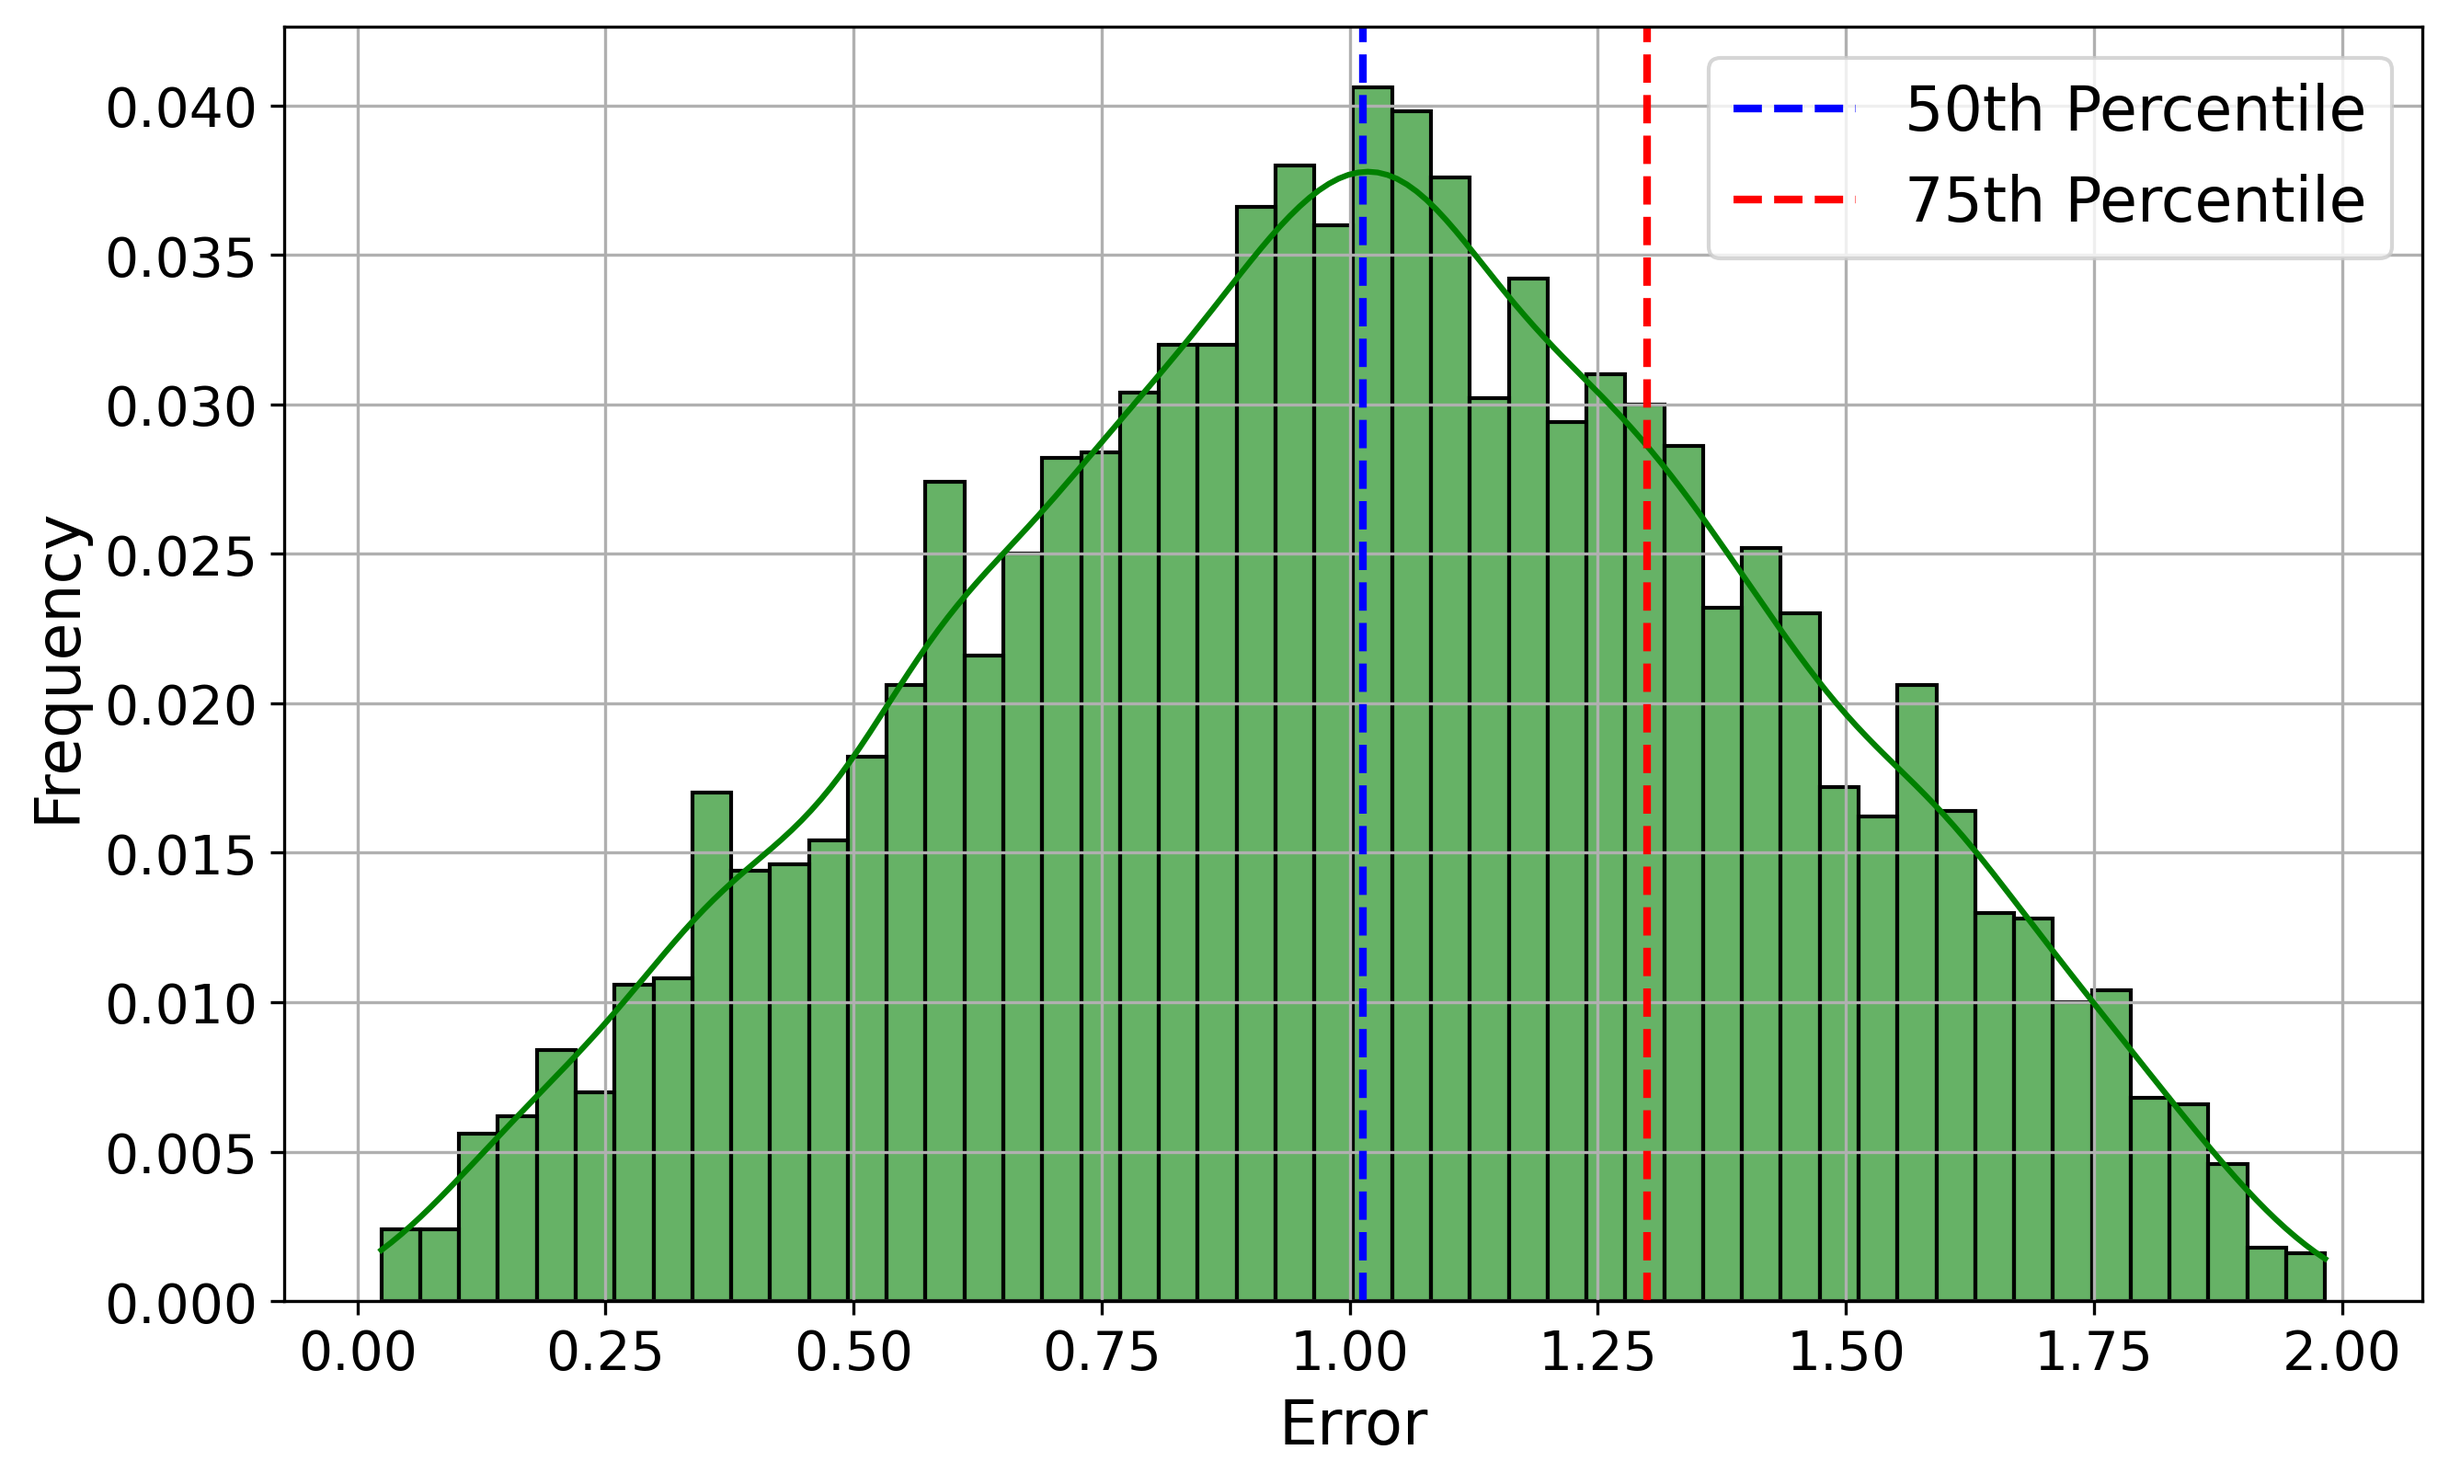
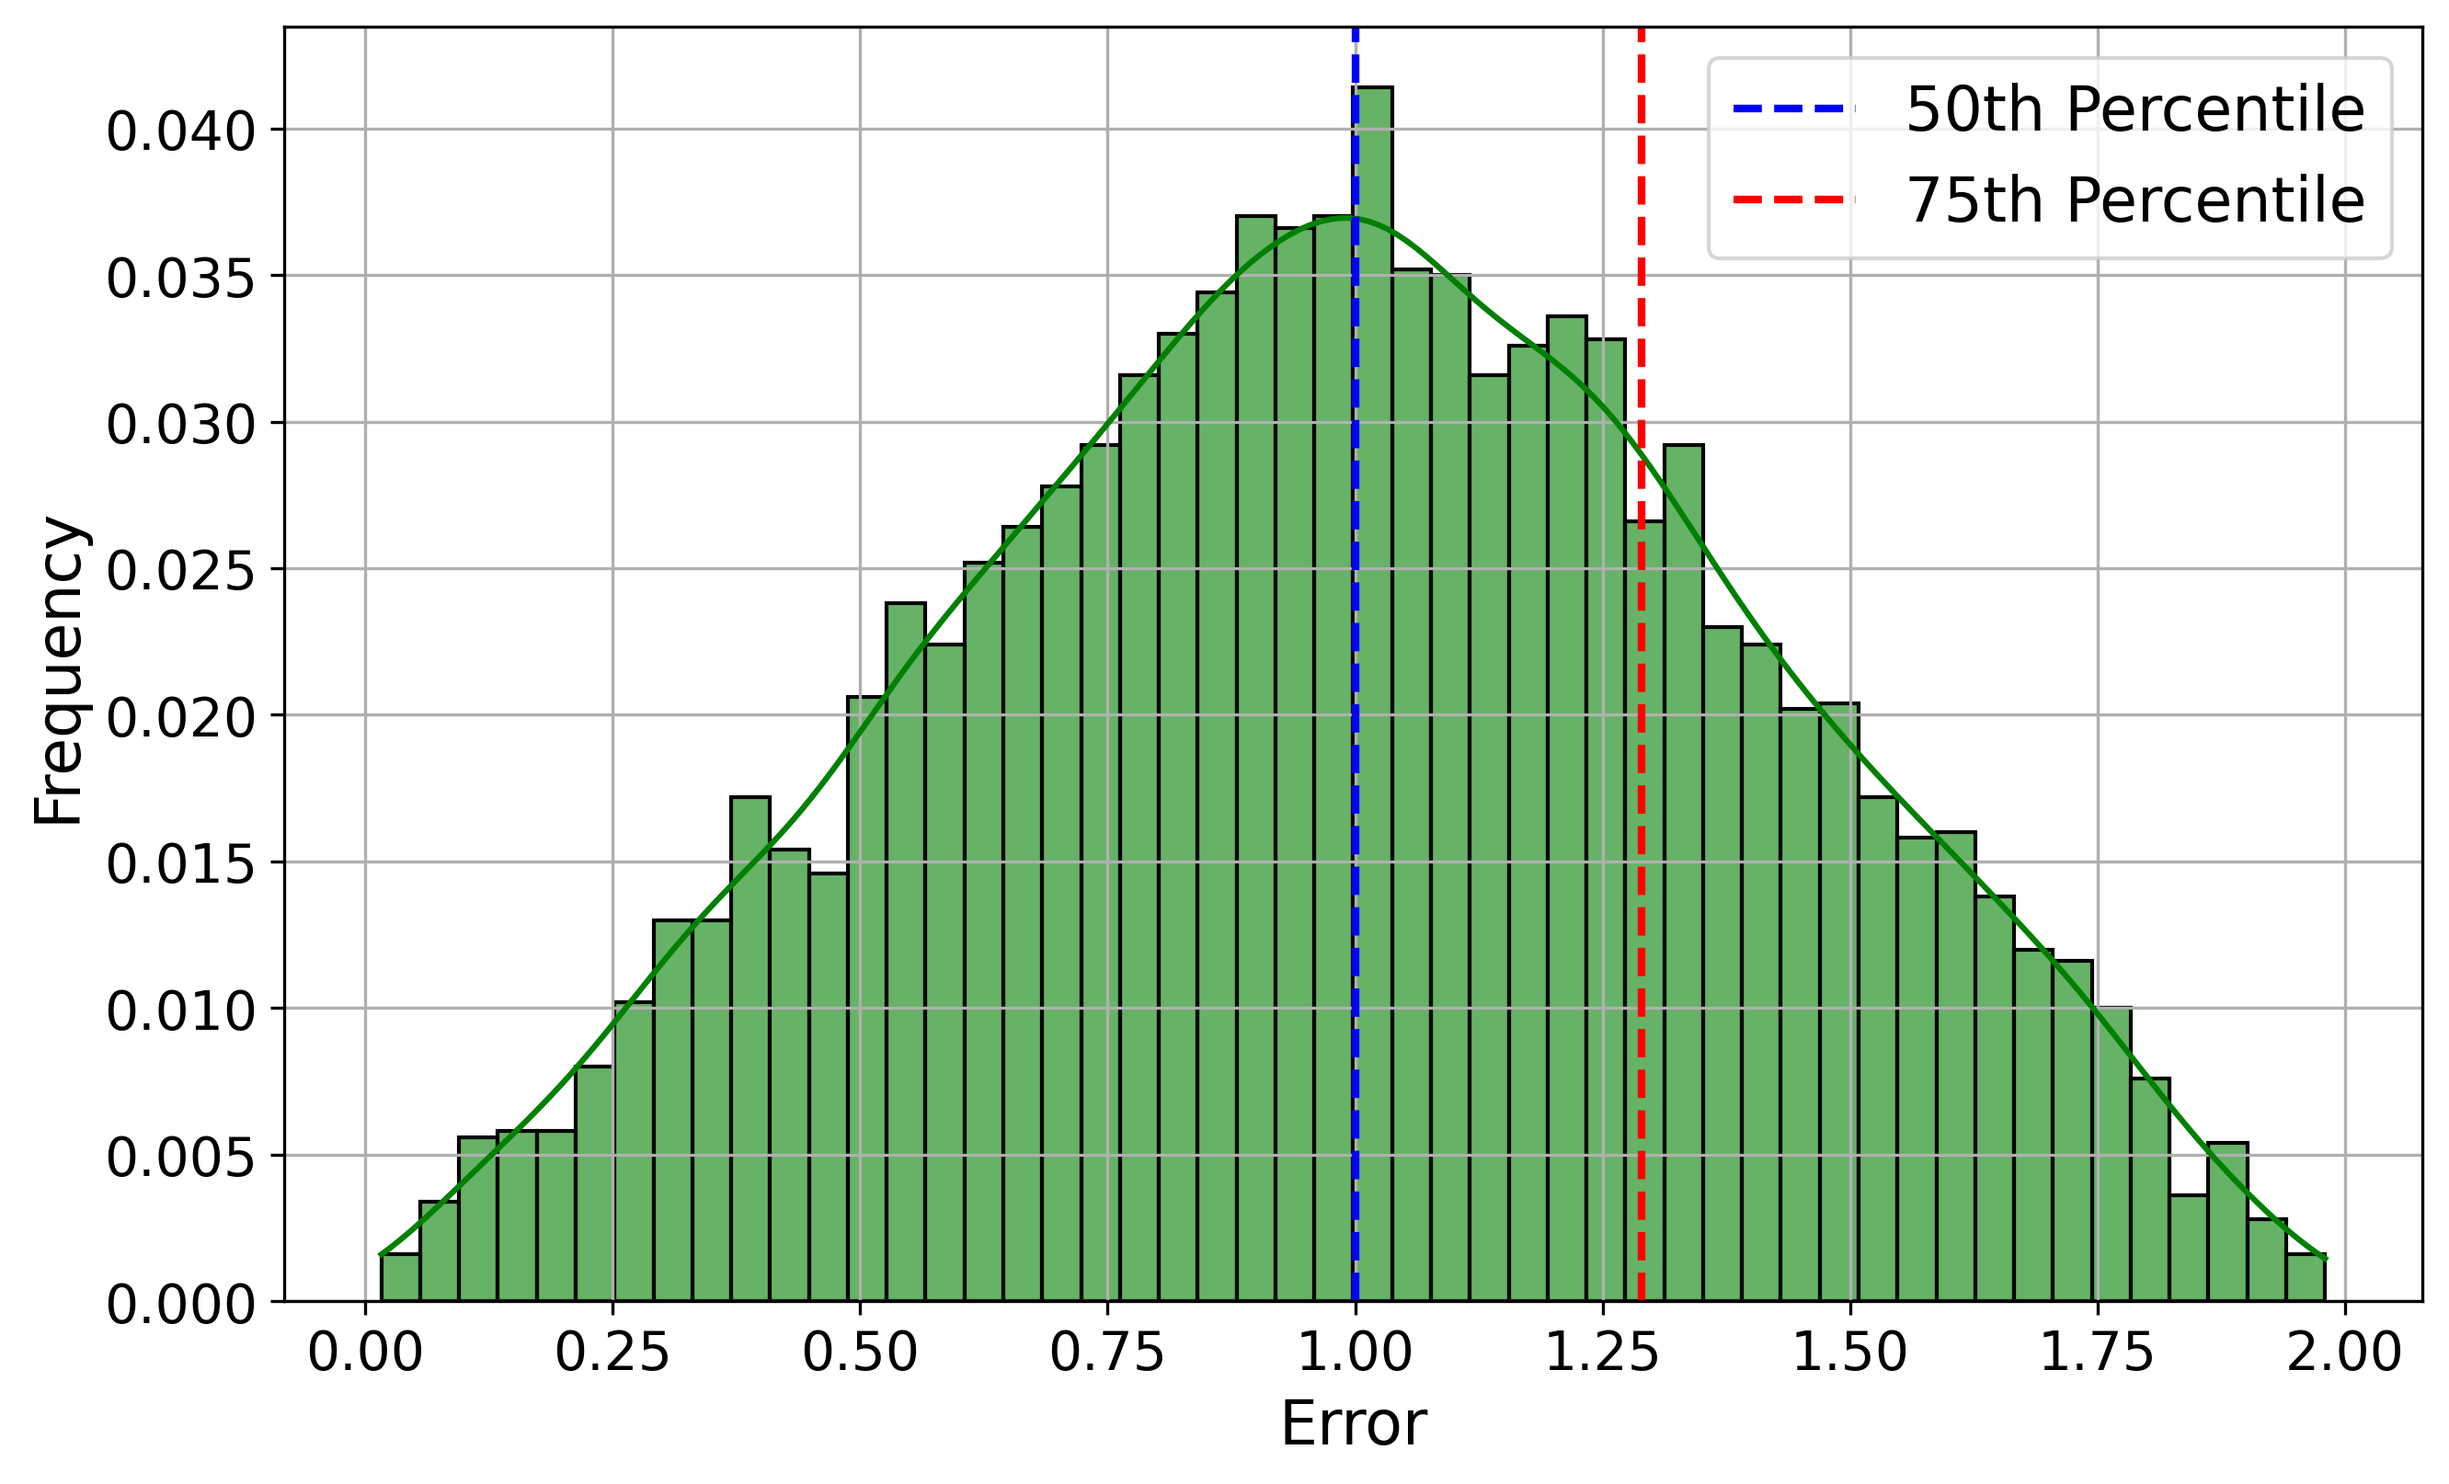
Add files

diff --git a/training_networks/neural_crypto_ab_v2.py b/training_networks/neural_crypto_ab_v2.py
@@ -3,9 +3,11 @@ import numpy as np
 import os
 from matplotlib import pyplot as plt
 from tqdm import tqdm
+import sys
+sys.path.append(os.path.dirname(os.path.dirname(os.path.abspath(__file__))))
 from learning_params import SCALE
-os.makedirs('models', exist_ok=True)
-os.makedirs('results', exist_ok=True)
+os.makedirs('training_networks/models', exist_ok=True)
+os.makedirs('training_networks/results', exist_ok=True)
 # -----------------------------
 # Configuration
 # -----------------------------
@@ -154,9 +156,9 @@ for step in tqdm(range(N_ROUNDS), desc='Training AB+EVE'):
     loss_history_eve.append(loss_e.numpy())
 
     if loss_ab < best_loss:
-        Alice.save('models/Alice_best.keras')
-        Bob.save('models/Bob_best.keras')
-        Eve.save('models/Eve_best.keras')
+        Alice.save('training_networks/models/Alice_best.keras')
+        Bob.save('training_networks/models/Bob_best.keras')
+        Eve.save('training_networks/models/Eve_best.keras')
         best_loss = loss_ab
         best_loss_iteration = step + 1
         # print all the loss values
@@ -169,9 +171,9 @@ for step in tqdm(range(N_ROUNDS), desc='Training AB+EVE'):
     if (step + 1) - best_loss_iteration > PATIENCE:
         print(f"No improvement for {PATIENCE} rounds. Stopping at step {step+1}.")
         # load the best models
-        Alice.load_weights('models/Alice_best.keras')
-        Bob.load_weights('models/Bob_best.keras')
-        Eve.load_weights('models/Eve_best.keras')
+        Alice.load_weights('training_networks/models/Alice_best.keras')
+        Bob.load_weights('training_networks/models/Bob_best.keras')
+        Eve.load_weights('training_networks/models/Eve_best.keras')
         print(f"Best loss: {best_loss:.4f} at step {best_loss_iteration}")
         break
 

diff --git a/training_networks/neural_crypto_tests_v2.py b/training_networks/neural_crypto_tests_v2.py
@@ -11,7 +11,7 @@ import matplotlib.ticker as mtick
 N_BITS      = 32
 N_ROUNDS    = 50000000   # HO training iterations
 BATCH_SIZE  = 1024
-MODEL_DIR   = 'models'
+MODEL_DIR   = 'training_networks/models'
 ALICE_MODEL = os.path.join(MODEL_DIR, 'Alice_best_100.keras')
 BOB_MODEL   = os.path.join(MODEL_DIR, 'Bob_best_100.keras')
 EVE_MODEL = os.path.join(MODEL_DIR, 'Eve_best_100.keras')
@@ -144,7 +144,7 @@ plt.legend(fontsize=FONT_SIZE)
 plt.grid(True)
 
 # Save the figure
-plt.savefig('eve_error_histogram.png', dpi=300, bbox_inches='tight')
+plt.savefig('training_networks/eve_error_histogram.png', dpi=300, bbox_inches='tight')
 plt.show()
 
 p50 = np.percentile(errors, 50)
@@ -165,5 +165,5 @@ plt.ylabel('Frequency', fontsize=FONT_SIZE)
 plt.tick_params(axis='both', which='major', labelsize=FONT_SIZE-2)
 plt.legend(fontsize=FONT_SIZE)
 plt.grid(True)
-plt.savefig('ho_error_histogram.png', dpi=300, bbox_inches='tight')
+plt.savefig('training_networks/ho_error_histogram.png', dpi=300, bbox_inches='tight')
 plt.show()

diff --git a/training_networks/neural_crypto_ho_v2.py b/training_networks/neural_crypto_ho_v2.py
@@ -16,8 +16,7 @@ logging.getLogger('tensorflow').setLevel(logging.ERROR)
 N_BITS      = 32
 N_ROUNDS    = 1000000000   # HO training iterations
 BATCH_SIZE  = 4096*16
-MODEL_DIR   = 'models'
-RESULTS_DIR = 'training_results'
+MODEL_DIR   = 'training_networks/models'
 ALICE_MODEL = os.path.join(MODEL_DIR, 'Alice_best_100.keras')
 BOB_MODEL   = os.path.join(MODEL_DIR, 'Bob_best_100.keras')
 

diff --git a/README.md b/README.md
@@ -63,6 +63,8 @@ The project implements and compares three federated learning approaches:
 ```
 
 ## Installation
+**Prerequisites**:
+- Python 3.11
 1. Clone repository:
 ```bash
 git clone https://github.com/Espes99/Neural-Homomorphic-Operation-System
